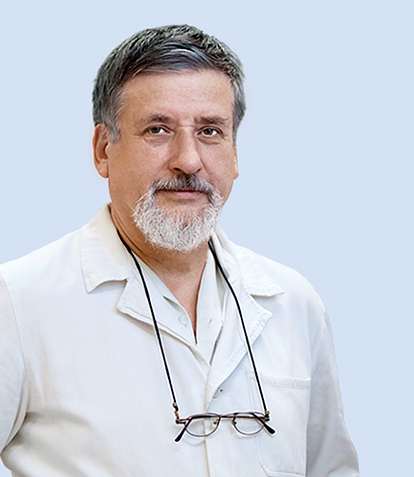
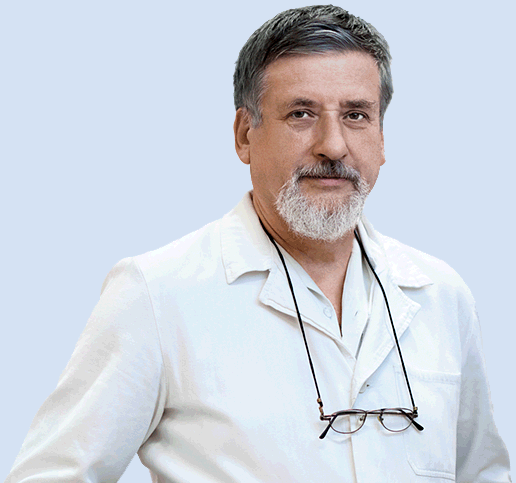
Ajustes cor da imagem + imgs quadradas para o menu

diff --git a/css/primary.styles.css b/css/primary.styles.css
@@ -308,7 +308,7 @@ line{
 #assinatura p{
 /*  font-family: 'DINProBold';*/
 	font-family: 'Trebuchet MS', Helvetica, sans-serif;
-  font-size:25px;
+  font-size:24px;
   position:absolute;
   bottom:0;
   left:-33px;
@@ -316,6 +316,7 @@ line{
   letter-spacing:0;
   margin-top:25px;
   margin-bottom:25px;
+	font-weight:bold;
 }
 .interna #assinatura p{
   top:115px;
@@ -412,7 +413,7 @@ body.interna #texto_logo{
 #content h2{
   margin:0;
   text-transform:uppercase;
-  font-weight:normal;
+  font-weight:bold;
 }
 #content h2{
   font-size:29px;
@@ -451,16 +452,16 @@ body.slug_acompanha #content{
 }
 body.slug_acompanha .bottom{
 	top: 360px;
-	height:550px;
+	height:570px;
 }
 body.slug_acompanha #content h3{
-	top: 140px;
-	left: 300px;
-	width: 295px;
+	top: 150px;
+	left: 0px;
+	width: 300px;
 }
 body.slug_acompanha #content .img_destaque{
-	left:0px;
-	top:73px;
+	left: 70px;
+	top: 88px;
 }
 body.slug_aplicativos .bottom{
 	top: 335px;
@@ -508,23 +509,24 @@ body.slug_saraiva #content  h1{
   border-color:#363390;
 }
 body.slug_saraiva #content h3{
-	top: 390px;
-	left: 400px;
+	top: 340px;
+	left: 0;
+	width: 280px;
 }
 body.slug_saraiva #content .img_destaque{
-	left: -100px;
-	top: 285px;
+	left: 90px;
+	top: 360px;
 }
 
 body.slug_licoes #content  h1{
   border-color:#007882;
 }
 body.slug_licoes #content h3{
-	top: 515px;
+	top: 550px;
 	width: 290px;
 }
 body.slug_licoes #content .img_destaque{
-	left: 120px;
+	left: 30px;
 	top: 544px;
 }
 

diff --git a/saraiva/index.html b/saraiva/index.html
@@ -75,7 +75,7 @@
 			<p>É o Portal Educacional da Editora Saraiva, e funciona como porta de entrada para os sites das disciplinas, com materiais de apoio ao professor, separados por obra adotada. Lá é possível encontrar apresentações, sugestões de avaliações, banco de questões, textos extras, artigos, imagens, animações e simulações dos materiais encontrados.</p>
 			<p>Pode ser acessado pelo: <a href="http://www.saraivaeduca.com.br">www.saraivaeduca.com.br</a></p>
       <h3>Os alunos poderão melhorar o seu desempenho e os professores enriquecerão suas práticas.</h3>
-			<img class="img_destaque" src="../img/5-saraiva-educa-trio-o.png" alt="" />
+			<img class="img_destaque" src="../img/4-saraiva-educa-menina-laptop-deitada.png" alt="" />
       </div>
   </div>
   

diff --git a/midiateca/index.html b/midiateca/index.html
@@ -75,7 +75,7 @@
 			<p>A midiateca é um conjunto de <em>links</em> selecionados. Neles, poderão ser encontrados textos, planos de aulas, simulações e animações. Os <em>links</em> são categorizados e organizados por disciplina, assunto, palavra-chave e nível de dificuldade. Para a apreciação e indicação de inadequação, a ferramenta oferece um relatório de visualização de <em>links</em> no qual o professor poderá emitir sua opinião.</p>
       <div  class="bottom">
         <h3>Ideal para o bom<br />aluno, indispensável<br />para o bom professor.</h3>
-  			<img class="img_destaque" src="../img/3-midiateca-mulher-de-jaleco-o.png" alt="" />
+  			<img class="img_destaque" src="../img/3-midiateca-mulher-de-jaleco.png" alt="" />
 			</div>
     </div>
   </div>

diff --git a/avaliacao/index.html b/avaliacao/index.html
@@ -79,7 +79,7 @@
 			</ul>
 			<p>As atividades dos bancos podem ser editadas para que correspondam a objetivos específicos. A utilização das atividades pode ser online ou impressa. Quando online, possibilita correção automática, facilitando o trabalho do professor. Além disso, os professores poderão criar outras avaliações, simulados e atividades que utilizem itens dos bancos de questões ou de sua autoria.</p>
       <h3>A vida do professor seria melhor se ele tivesse um aliado na hora de elaborar questões, simulados e provas? Essa ferramenta eficiente acabou de chegar.</h3>
-			<img class="img_destaque" src="../img/1-avaliacao-grafico-o.png" alt="" />
+			<img class="img_destaque" src="../img/1-avaliacao-grafico.png" alt="" />
     </div>
   </div>
   

diff --git a/licoes/index.html b/licoes/index.html
@@ -83,7 +83,7 @@
 			<p>Quando o professor preferir produzir seu próprio material, poderá fazê-lo por meio de novas atividades utilizando os recursos e ferramentas da plataforma. Essas ficarão disponíveis apenas para ele e seus alunos, garantindo sua privacidade e propriedade intelectual.</p>
 			<p><strong>Módulo disponível a partir de maio.</strong></p>
       <h3>Os alunos poderão melhorar o seu desempenho e os professores enriquecerão suas práticas.</h3>
-			<img class="img_destaque" src="../img/2-atividades-multimidia-menina-laptop-deitada-o.png" alt="" />
+			<img class="img_destaque" src="../img/2-atividades-multimidia-menina-laptop-frente.png" alt="" />
     </div>
   </div>
   

diff --git a/acompanha/index.html b/acompanha/index.html
@@ -82,7 +82,7 @@
         <h3>
         Finalmente tecnologia<br />e educação acharam um <br />jeito de atuar juntas.
       </h3>
-			<img class="img_destaque" src="../img/0-acompanha-o.png" alt="" />
+			<img class="img_destaque" src="../img/0-acompanha.png" alt="" />
       </div>
     </div>
   </div>
